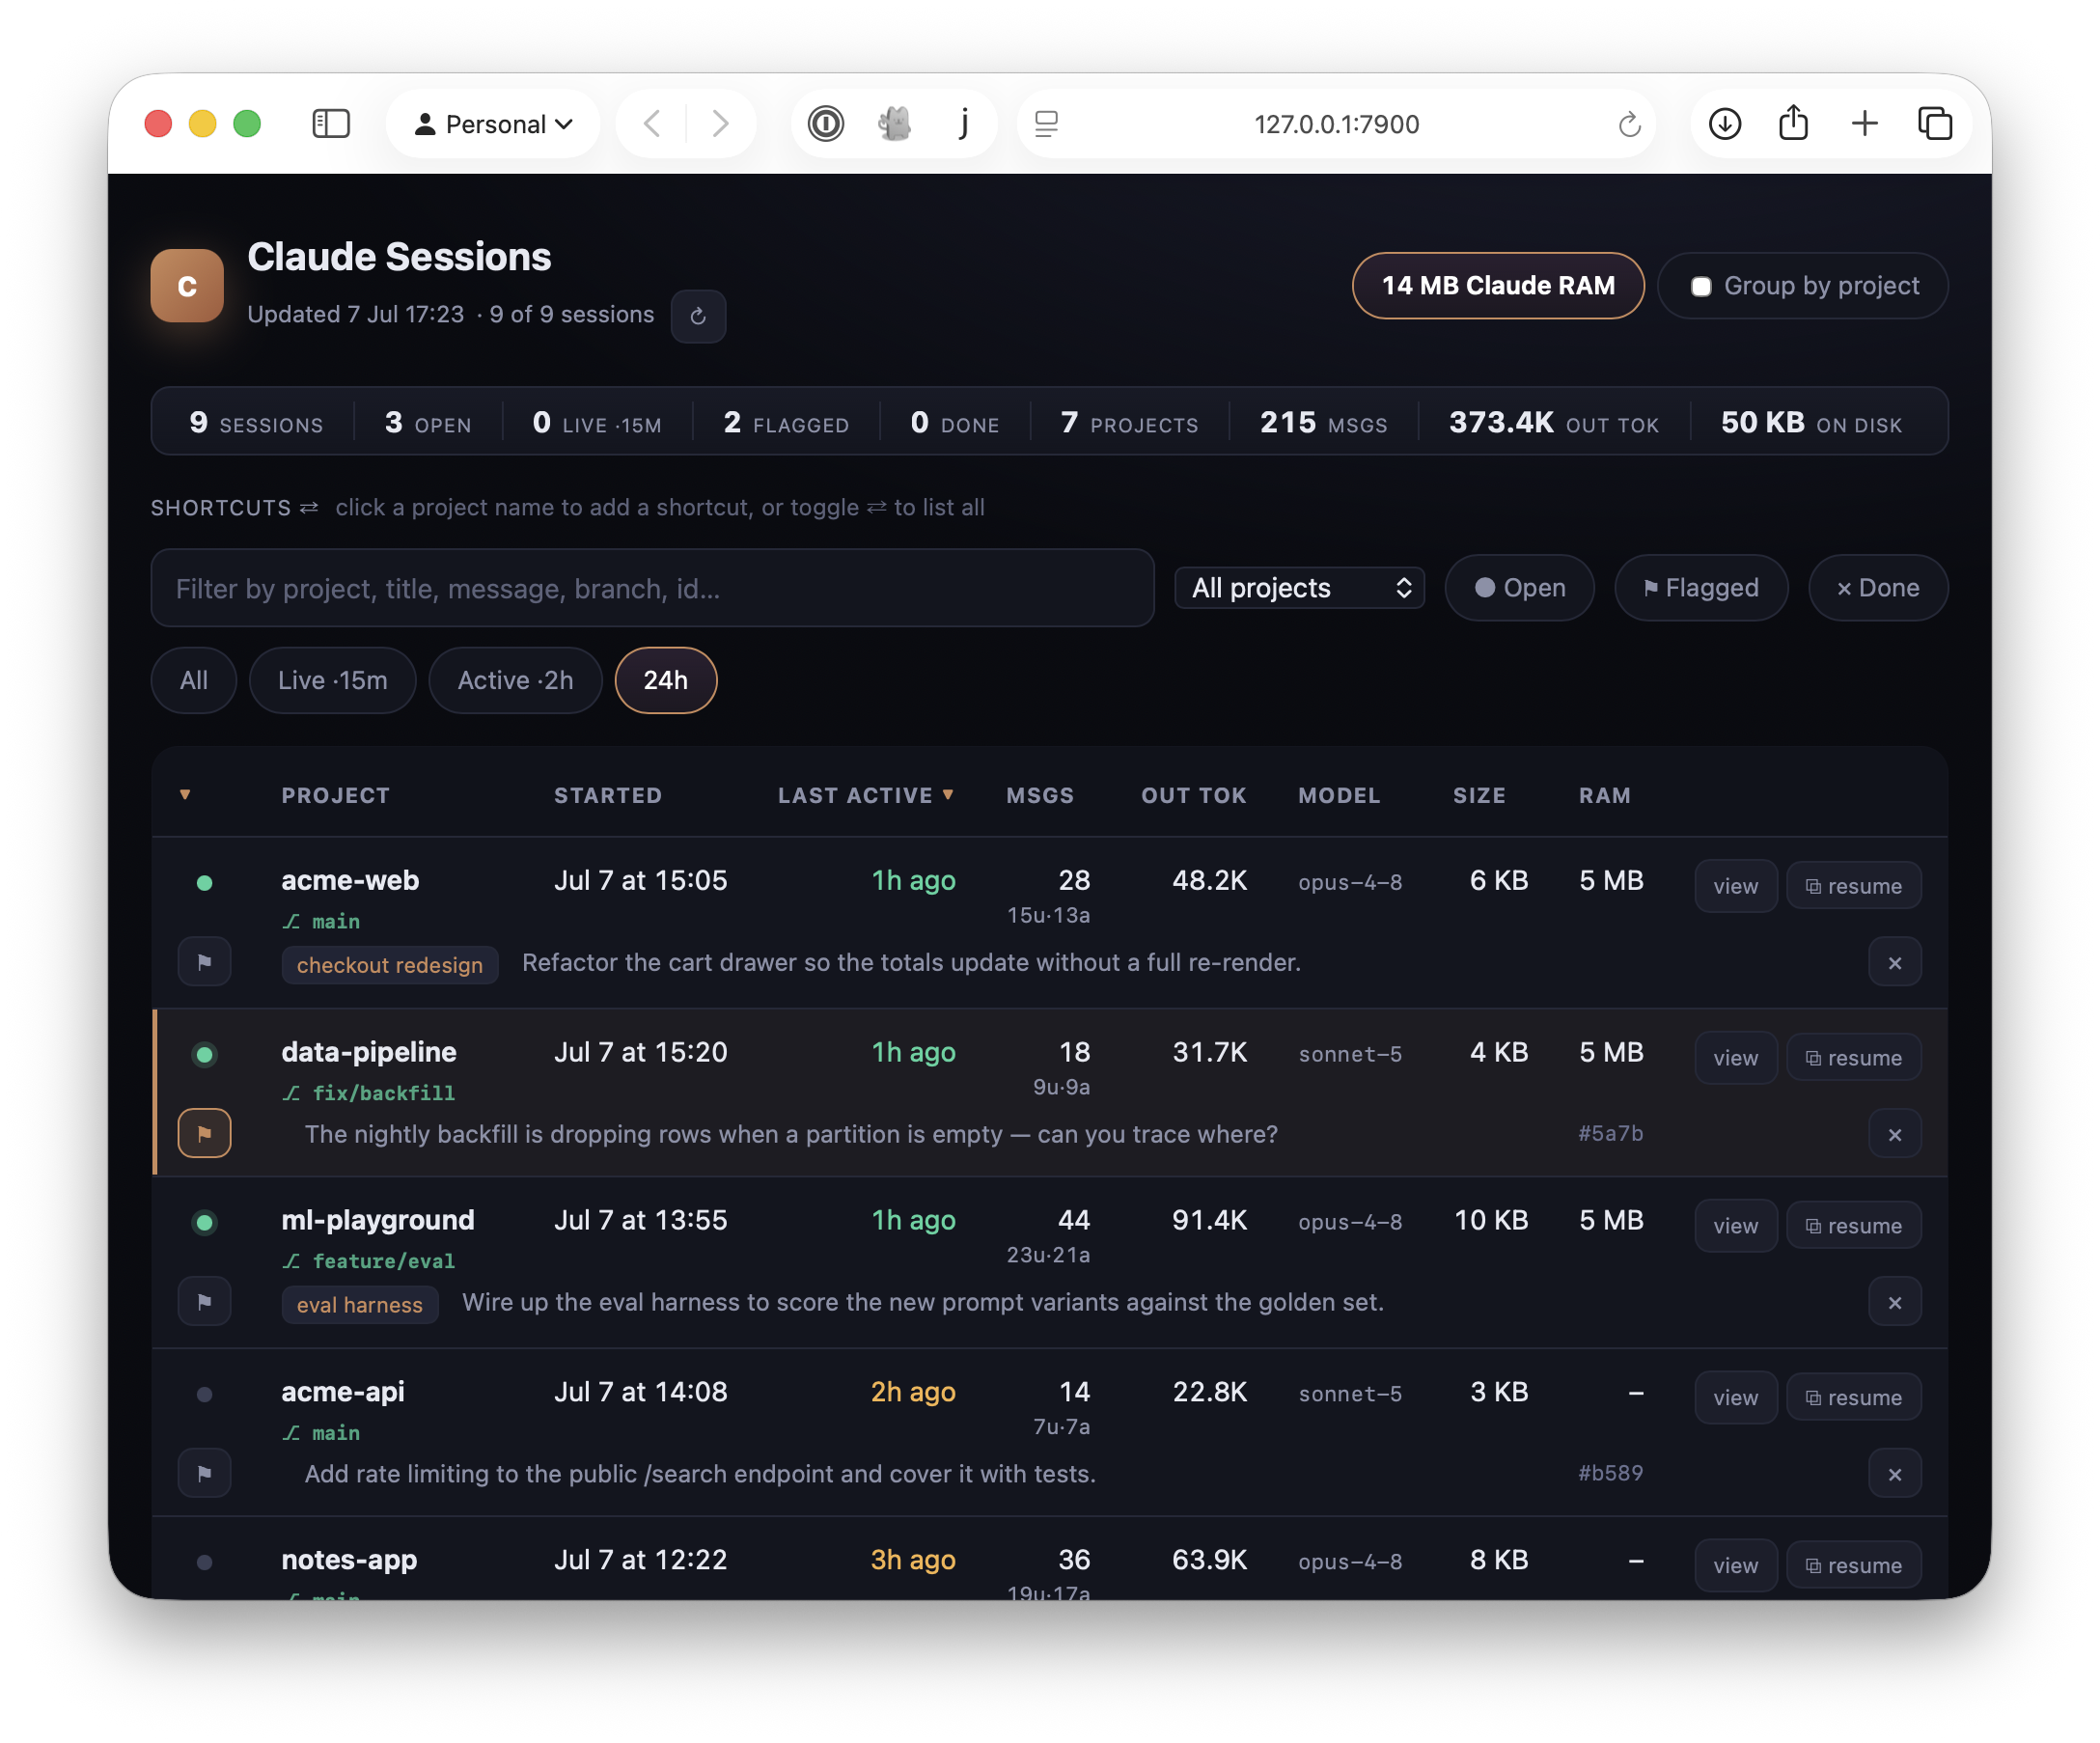
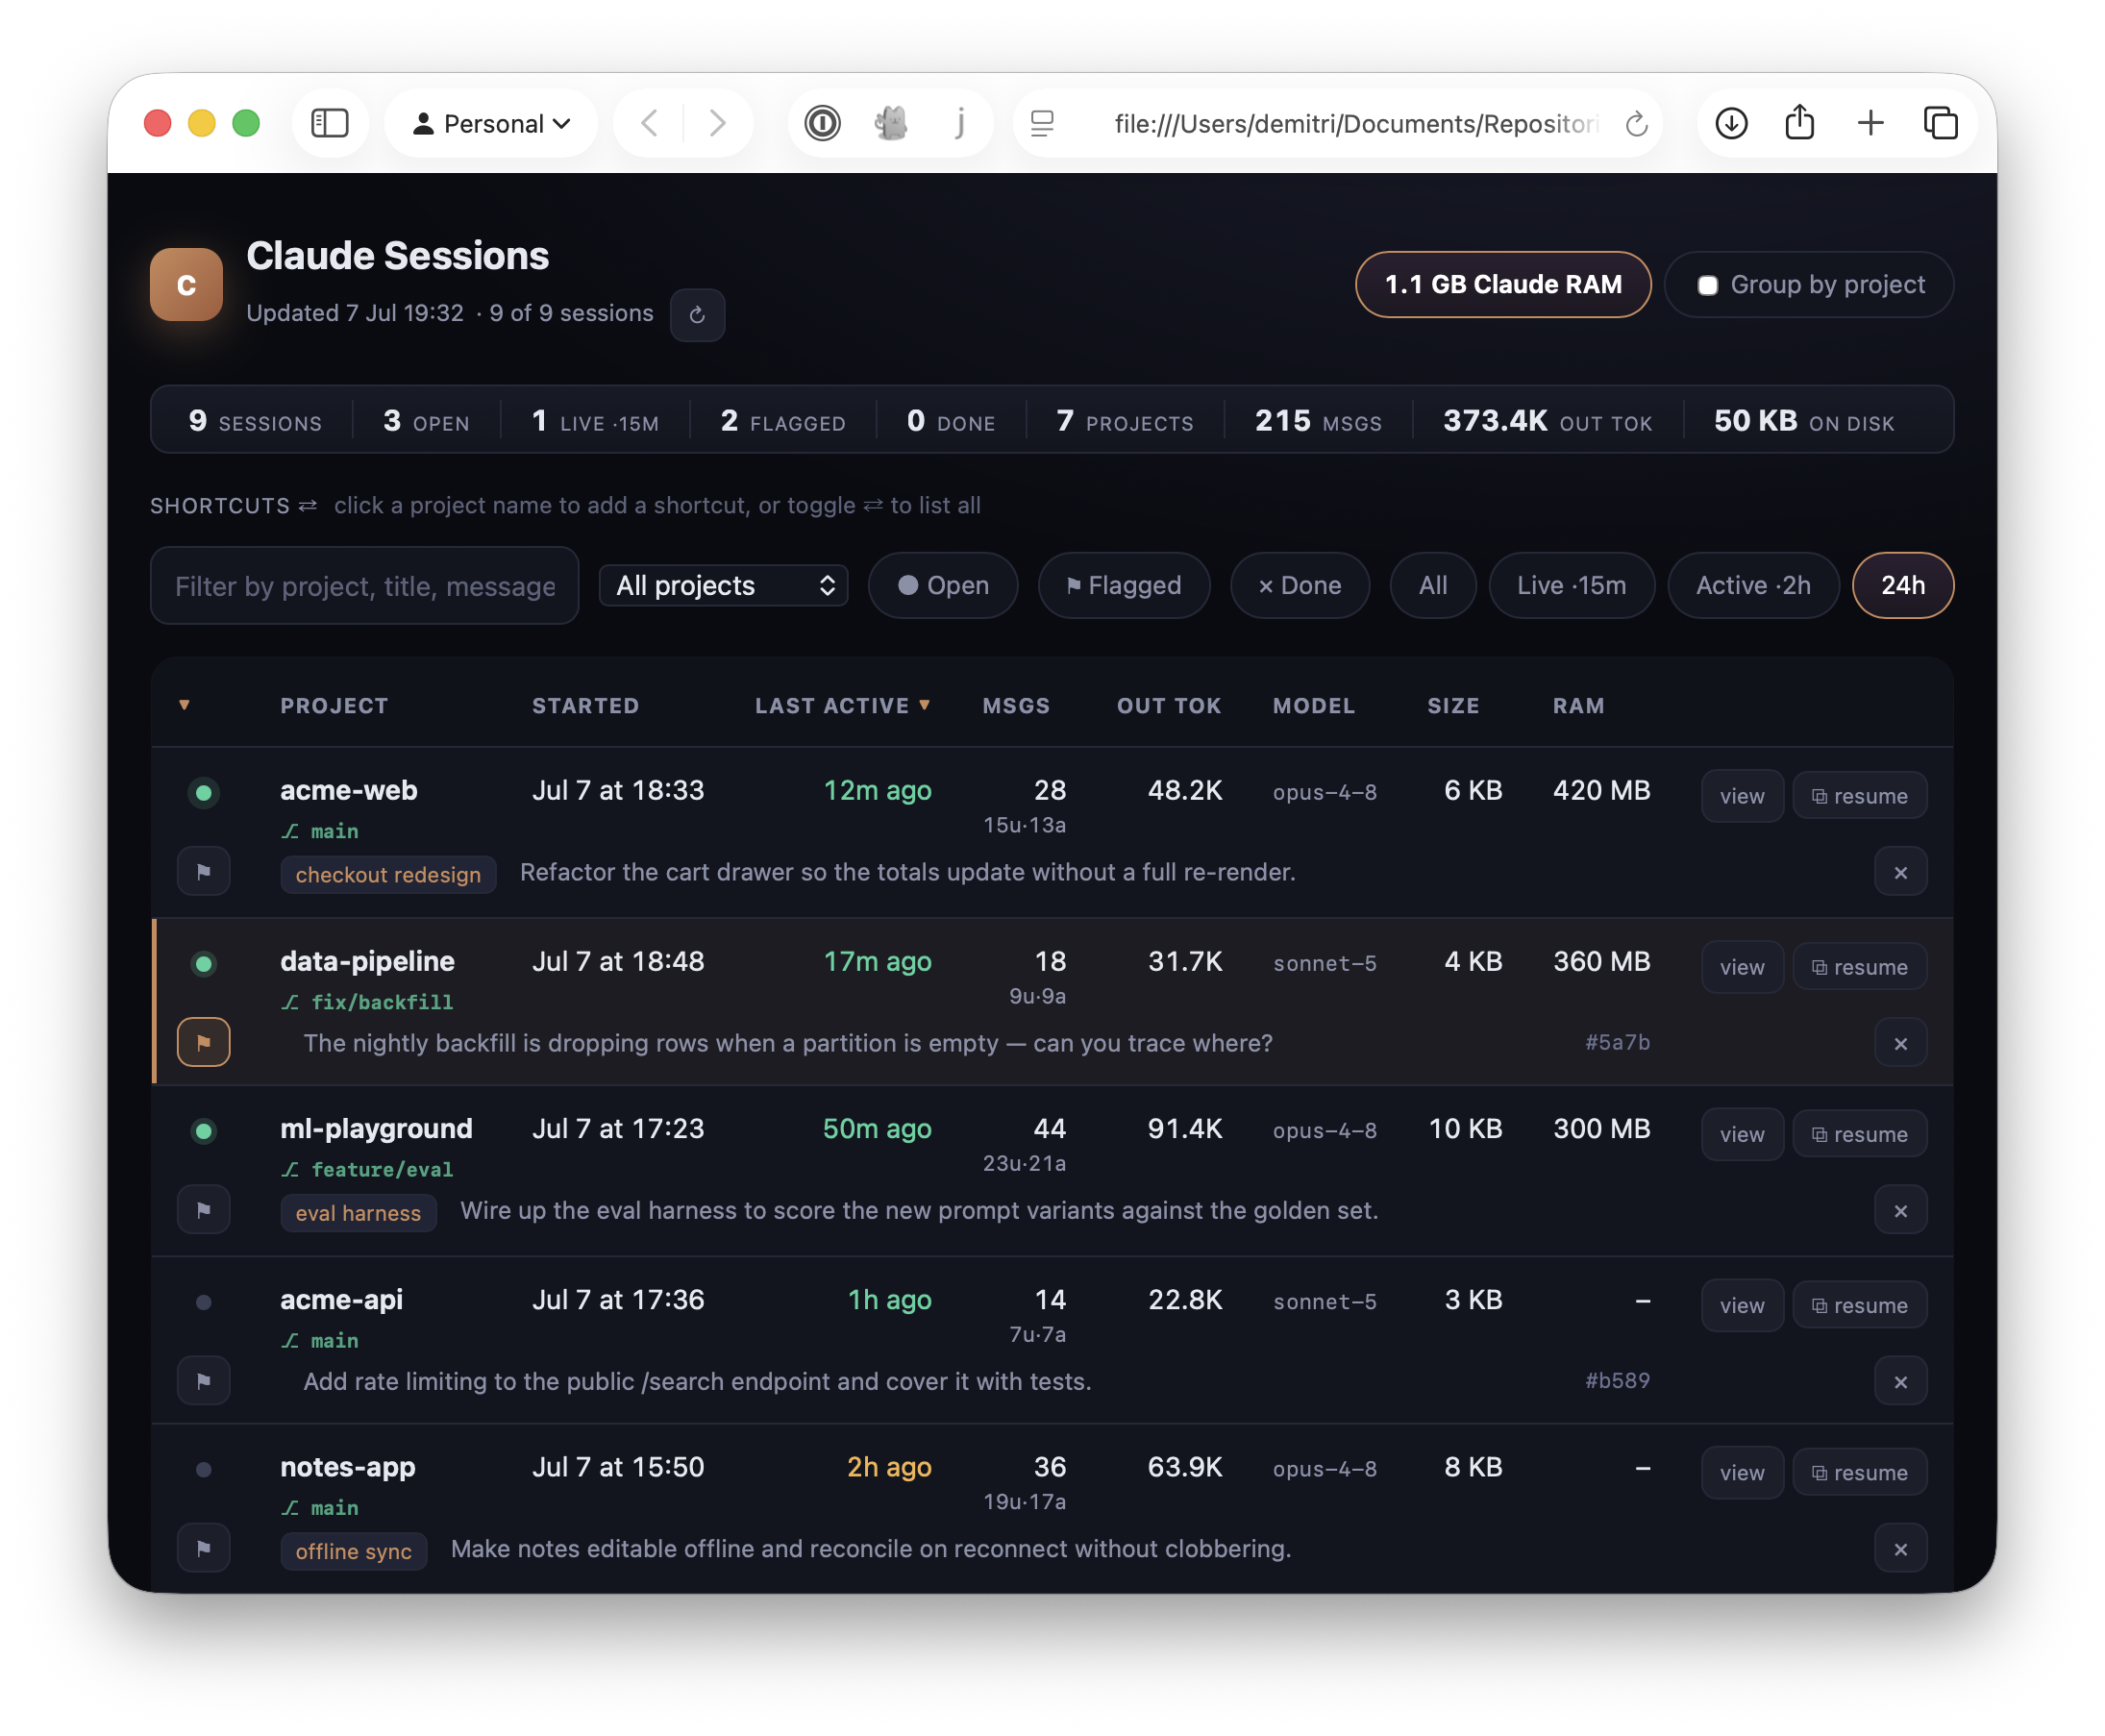
readme polish + zero-RAM screenshot fixture
- README: apply consistent style (en dashes, curly quotes, Title Case
  headings, "reopen"/"subagent"/"single-file"/"done"), fix typos, trim the
  /done redundancy, and correct "date" -> "last active".
- tools/make_fixture.py: reworked to inject open-state + RAM into the --once
  static JSON instead of spawning RAM-holding processes — no memory used, no
  cleanup, exact numbers; emits demo.html.
- docs/screenshot.png: refreshed fabricated capture (injected ~1.1 GB RAM).
- AI/dashboard.md: cleanupPeriodDays is default 20 (not 30) and settable
  (this machine: 99999) — don't assume the window is bounded.
- AI/START_HERE.md, AI/TODO.md: describe the injection approach.

Claude-Session: https://claude.ai/code/session_01VYuLtQmvA5r1BcYibEE2Lz

diff --git a/tools/make_fixture.py b/tools/make_fixture.py
@@ -1,33 +1,41 @@
 #!/usr/bin/env python3
-"""Generate a throwaway ~/.claude tree of *fabricated* Claude Code sessions so
+"""Generate a self-contained demo page of *fabricated* Claude Code sessions so
 the dashboard can be screenshotted (docs/screenshot.png) with zero real or
-private data.
+private data — and without spawning processes or holding real RAM.
 
-Everything here is invented — project names, prompts, ids. It writes into an
-isolated $FIXTURE_HOME, then you point the dashboard at that HOME:
+Everything here is invented — project names, prompts, ids, RAM figures. The
+approach:
 
+  1. Write an isolated $FIXTURE_HOME/.claude tree of invented session files.
+  2. Run `claude-status.py --once` against that HOME to produce the real static
+     page (reusing the app's own write_static(), so the HTML never drifts from
+     the live dashboard when the UI changes).
+  3. Inject open-state + RAM numbers straight into the page's inlined JSON.
+     Those fields (open / live_status / rss_kb) are normally process-derived;
+     faking them in the data is what lets the RAM column, the header RAM chip,
+     and the green/pulsing "open" dots render without any live Claude process.
+
+Output: $FIXTURE_HOME/demo.html — open it in a browser and screenshot. It's a
+plain file:// page: no server, no processes, nothing to kill afterward.
+
+Usage:
     cd tools
     FIXTURE_HOME="$PWD/fixture-home" python3 make_fixture.py
-    HOME="$PWD/fixture-home" python3 ../claude-status.py --port 7900
+    open "$PWD/fixture-home/demo.html"     # then screenshot -> docs/screenshot.png
 
-Because claude-status.py resolves PROJECTS/SESSIONS/FLAGS through
-os.path.expanduser("~/..."), overriding $HOME fully isolates it from your real
-~/.claude. Regenerate whenever the dashboard's look changes and a fresh
-screenshot is needed.
-
-The script also spawns a few short-lived helper processes that hold real RAM
-(and touch every page so it's actually resident) with matching
-~/.claude/sessions/<pid>.json files, so the RAM column and header chip render
-realistic numbers. It prints the pids and the `kill` line to stop them.
+Re-run whenever the dashboard's look changes and a fresh screenshot is needed.
 """
 import json, os, sys, random, subprocess
 from datetime import datetime, timezone, timedelta
 
 HOME = os.path.abspath(os.environ.get("FIXTURE_HOME", "fixture-home"))
 PROJECTS = os.path.join(HOME, ".claude", "projects")
-SESSIONS = os.path.join(HOME, ".claude", "sessions")
 CONFIG = os.path.join(HOME, ".config", "claude-sessions")
-for d in (PROJECTS, SESSIONS, CONFIG):
+APP = os.path.join(os.path.dirname(os.path.abspath(__file__)), "..", "claude-status.py")
+# write_static() always writes index.html next to claude-status.py:
+STATIC_OUT = os.path.join(os.path.dirname(os.path.abspath(APP)), "index.html")
+DEMO_OUT = os.path.join(HOME, "demo.html")
+for d in (PROJECTS, CONFIG):
     os.makedirs(d, exist_ok=True)
 
 rnd = random.Random(1234)  # deterministic fixture
@@ -60,14 +68,12 @@ SPEC = [
     ("data-pipeline",   "main",            None,                 "Document the schema for the events table and add a freshness check.", 6, 6, 17400, 1, 1180),
 ]
 
-# which rows are "open" (index -> status); those get a live process + RAM
-OPEN = {0: "busy", 1: "idle", 2: "idle"}
-# hold real, resident RAM so the RAM column / header chip look realistic (MB)
-RAM_MB = {0: 420, 1: 360, 2: 300}
+# index -> (live_status, rss_MB): the "open" sessions and their fabricated RAM.
+OPEN = {0: ("busy", 420), 1: ("idle", 360), 2: ("idle", 300)}
 FLAG_ROWS = {1, 5}   # ⚑ flagged (reboot-survival demo)
 
-live_pids = []
 sids = []
+inject = {}   # session id -> {"open", "live_status", "rss_kb"}
 for i, (proj, branch, title, prompt, nu, na, out_tok, mi, mins) in enumerate(SPEC):
     cwd = "%s/%s" % (BASE, proj)
     s = sid(); sids.append(s)
@@ -105,38 +111,42 @@ for i, (proj, branch, title, prompt, nu, na, out_tok, mi, mins) in enumerate(SPE
             fh.write(json.dumps(o) + "\n")
 
     if i in OPEN:
-        mb = RAM_MB[i]
-        # Hold memory that actually stays resident in `ps -o rss=` (what the
-        # dashboard reads). Two OS behaviours fight this: a zero-filled buffer
-        # gets collapsed (macOS memory compressor / Linux shared zero page),
-        # and *idle* pages get evicted/swapped even when incompressible. So:
-        # fill with incompressible os.urandom AND keep the pages hot with a
-        # cheap strided re-read once a second (one access per 4 KB page marks
-        # it recently-used → not reclaimed; ~size/4096 reads/s, negligible CPU).
-        code = ("import os, time\n"
-                "x = os.urandom(%d * 1024 * 1024)\n"
-                "while True:\n"
-                "    s = 0\n"
-                "    for i in range(0, len(x), 4096): s += x[i]\n"
-                "    time.sleep(1)\n") % mb
-        # Detach (own session, no inherited stdio) so the helper never holds a
-        # parent pipe open — otherwise a wrapping shell can hang on it.
-        proc = subprocess.Popen([sys.executable, "-c", code],
-                                stdout=subprocess.DEVNULL, stderr=subprocess.DEVNULL,
-                                stdin=subprocess.DEVNULL, start_new_session=True)
-        pid = proc.pid
-        live_pids.append(pid)
-        with open(os.path.join(SESSIONS, "%d.json" % pid), "w") as fh:
-            json.dump({"pid": pid, "sessionId": s, "cwd": cwd,
-                       "status": OPEN[i], "kind": "cli", "name": title or ""}, fh)
+        status, mb = OPEN[i]
+        inject[s] = {"open": True, "live_status": status, "rss_kb": mb * 1024}
 
 # flags.json (⚑ flagged rows: key present = mark set)
 flags = {sids[i]: {"flag": iso(now)} for i in FLAG_ROWS}
 with open(os.path.join(CONFIG, "flags.json"), "w") as fh:
     json.dump(flags, fh)
 
-print("FIXTURE_HOME=%s" % HOME)
-print("sessions: %d   open(with RAM): %d   flagged: %d" % (len(SPEC), len(live_pids), len(FLAG_ROWS)))
-print("\nServe it:\n  HOME=%s python3 ../claude-status.py --port 7900" % HOME)
-print("\nStop the RAM-holding helper processes when done:\n  kill %s"
-      % " ".join(str(p) for p in live_pids))
+# --- render the real static page via the app's own write_static(), then inject.
+env = dict(os.environ, HOME=HOME)
+subprocess.run([sys.executable, APP, "--once", "--no-open"], env=env, check=True)
+html = open(STATIC_OUT, encoding="utf-8").read()
+os.remove(STATIC_OUT)  # don't leave a snapshot in the repo tree
+
+# The page inlines the dataset as `let j=<json>;`. Parse exactly that JSON
+# object (raw_decode finds its end), rewrite the fabricated fields, splice back.
+i = html.index("let j=") + len("let j=")
+data, end = json.JSONDecoder().raw_decode(html, i)
+hit = 0
+for s in data["sessions"]:
+    patch = inject.get(s["id"])
+    if patch:
+        s.update(patch)
+        hit += 1
+if hit != len(inject):
+    raise SystemExit("inject: matched %d of %d open sessions (id mismatch?)" % (hit, len(inject)))
+html = html[:i] + json.dumps(data) + html[end:]
+# re-enable the per-row "view" links so the demo matches the live dashboard
+# (they're dead on file://, but never clicked in a screenshot).
+html = html.replace("const STATIC=true;", "const STATIC=false;")
+
+with open(DEMO_OUT, "w", encoding="utf-8") as fh:
+    fh.write(html)
+
+total_gb = sum(p["rss_kb"] for p in inject.values()) / 1024 / 1024
+print("\nsessions: %d   open+RAM: %d (%.2f GB)   flagged: %d"
+      % (len(SPEC), len(inject), total_gb, len(FLAG_ROWS)))
+print("demo page: %s" % DEMO_OUT)
+print("open it and screenshot -> docs/screenshot.png:\n  open %s" % DEMO_OUT)

diff --git a/README.md b/README.md
@@ -1,54 +1,16 @@
-# claude-sessions
+# Claude Sessions
 
-**A local dashboard for your Claude Code sessions.** Point it at `~/.claude`,
-open the page, and see every session grouped by project — with live status,
-stats, a full transcript reader, and one-click resume.
+**A local dashboard for your Claude Code sessions.**
 
-No install, no dependencies, no daemon. It's a single Python file that runs on
-the standard library. `python3 claude-status.py` and you're looking at it.
+Do you tend to have a large number of Claude sessions in flight? Do you find yourself wishing you could reopen a session that you closed two weeks ago? Are sessions taking up too much RAM but you don’t want to start closing them because of unfinished work?
 
-<p align="center">
-  <img src="docs/screenshot.png" alt="The claude-sessions dashboard: sessions grouped by project with status dots, stats, and resume buttons" width="900">
-</p>
+Claude Sessions is the answer – it’s a single-file Python server with no dependencies that gives you a detailed dashboard of all your sessions. Total memory used, number of sessions, and token usage are all displayed. Sessions are searchable by name, project, or last active. Even after you close a session the full transcript remains on your computer (subject to the `cleanupPeriodDays` [setting](https://code.claude.com/docs/en/settings), default 20 days), ready to be reopened at any time. You can even review the full transcript of past sessions without opening Claude and spending tokens. And I mean *full* transcript – read the subagent calls, responses, tool use, etc.
 
-## Why
+For those “I can’t close this session because I’m still using it!” windows, just find the session in the dashboard, click the “flag” icon, and close the session. You can then view all flagged sessions in the dashboard and copy the command to reopen them where they left off – freeing up precious RAM in the meantime. This project was born from a memory- and disk-full incident with 10+ open sessions that needed to survive a reboot – the on-disk history made the working set recoverable, and this dashboard turns that state into a live console for finding, triaging, and resuming your work.
 
-Claude Code persists every session to `~/.claude/projects/*/*.jsonl`, but there's
-no built-in way to see them all at once. This project was born from a disk-full
-incident with 10+ open sessions that needed to survive a reboot — the on-disk
-history made the working set recoverable, and this dashboard turns that state
-into a live console for finding, triaging, and resuming your work.
+## Starting the Dashboard
 
-## Features
-
-- **Everything at a glance** — every session grouped by project directory, with
-  start time, last-active (colour-coded by recency), message counts, model, git
-  branch, output tokens, and on-disk size.
-- **Live status** — a coloured dot per session: green for open, pulsing for
-  busy, grey for closed — detected from the running Claude processes, not
-  guessed from file mtimes.
-- **One-click resume** — the ⧉ button copies `cd "<dir>" && claude --resume <id>`
-  straight to your clipboard.
-- **Transcript reader** — a **view** link opens the full conversation on its own
-  linkable page: distinct user/assistant turns, collapsed tool-calls and
-  thinking, in-transcript search, a prompt-jump sidebar, and lazy sub-agent
-  expansion.
-- **Reboot survival** — ⚑ flag the sessions you're not done with, restart, filter
-  to "Flagged", and resume them. Marks persist server-side across reboots and
-  browsers.
-- **Filter & sort** — free-text search (project / title / message / branch / id /
-  model), a project dropdown, recency chips, and sortable columns.
-- **Memory footprint** — a per-session RAM column and a header chip totalling how
-  much memory your open sessions are holding — a number the OS can't tell you.
-- **`/done` in a session** — mark the current session complete so it drops out of
-  the default view; pairs naturally with `/exit`.
-
-## Requirements
-
-Python 3 with the standard library. That's it — no `pip install`. Tested on
-Python 3.13; any recent Python 3 should work. macOS and Linux.
-
-## Quick start
+Nothing to install, no dependencies, no daemon, just a recent Python 3.x. The dashboard is a single-file Python server that runs on the standard library.
 
 ```bash
 git clone https://github.com/demitri/claude-sessions.git
@@ -65,39 +27,38 @@ python3 claude-status.py --once        # write a static index.html snapshot and 
 python3 claude-status.py --done        # mark the current session "done" and exit
 ```
 
-The server rescans `~/.claude/projects/` on every request (cached per file by
-mtime + size), and the page auto-refreshes every 30 seconds.
+The server rescans `~/.claude/projects/` on every request (cached per file by mtime + size), and the page auto-refreshes every 30 seconds.
 
-## The `/done` slash command
+<p align="center">
+  <img src="docs/screenshot.png" alt="The claude-sessions dashboard: sessions grouped by project with status dots, stats, and resume buttons" width="900">
+</p>
 
-An example `/done` command ships in `commands/done.md`. Copy it to
-`~/.claude/commands/done.md` and set the checkout path (see the note at the top
-of the file). It marks the **current** session complete — reading
-`$CLAUDE_CODE_SESSION_ID`, so it takes no argument — dropping it from the
-dashboard's default view. Type `/done` then `/exit` to close out a finished
-session in one gesture.
+## Features
 
-The raw CLI also accepts an optional session id or the statusline's last-4
-(`python3 claude-status.py --done 6789`) for marking a session done from a plain
-terminal, outside any session. A running dashboard picks the mark up on its next
-refresh.
+- **Everything at a glance** – every session grouped by project directory, with start time, last-active (colour-coded by recency), message counts, model, git branch, output tokens, and on-disk size.
+- **Live status** – a coloured dot per session: green for open, pulsing for busy, grey for closed – detected from the running Claude processes, not guessed from file mtimes.
+- **One-click resume** – the ⧉ button copies `cd "<dir>" && claude --resume <id>` straight to your clipboard.
+- **Transcript reader** – a **view** link opens the full conversation on its own linkable page: distinct user/assistant turns, collapsed tool-calls and thinking, in-transcript search, a prompt-jump sidebar, and lazy subagent expansion.
+- **Reboot survival** – ⚑ flag the sessions you’re not done with, restart, filter to “Flagged”, and resume them. Marks persist server-side across reboots and browsers.
+- **Filter & sort** – free-text search (project / title / message / branch / id / model), a project dropdown, recency chips, and sortable columns.
+- **Memory footprint** – a per-session RAM column and a header chip totalling how much memory your open sessions are holding – a number the OS can’t tell you.
+- **Mark sessions done** – `/done` in a session (or the ✕ button in the dashboard) drops a finished session from the default view. It’s not deleted – a toggle brings done sessions back.
 
-## How it works
+## The `/done` Slash Command
 
-Everything lives in `claude-status.py` — a stdlib `ThreadingHTTPServer` backend
-and a single embedded HTML/CSS/JS page, no build step and no framework. The
-backend scans `~/.claude/projects/*/*.jsonl`, parses each session defensively
-(the format is an undocumented Claude Code internal, so malformed *lines* are
-skipped, never whole files), and serves the data as JSON. Live status comes from
-`~/.claude/sessions/<pid>.json`, cross-checked against the running processes.
+An example `/done` command ships in `commands/done.md`. Copy it to `~/.claude/commands/done.md` and set the checkout path (see the note at the top of the file). It marks the **current** session done – reading `$CLAUDE_CODE_SESSION_ID`, so it takes no argument – dropping it from the dashboard’s default view. Type `/done` then `/exit` to close out a finished session in one gesture.
 
-For a deeper tour, see [`AI/dashboard.md`](AI/dashboard.md); for orientation,
-[`AI/START_HERE.md`](AI/START_HERE.md).
+The raw CLI also accepts an optional session id or the statusline’s last-4 (`python3 claude-status.py --done 6789`) for marking a session done from a plain terminal, outside any session. A running dashboard picks the mark up on its next refresh.
+
+## How It Works
+
+Everything lives in `claude-status.py` – a stdlib `ThreadingHTTPServer` backend and a single embedded HTML/CSS/JS page, no build step and no framework. The backend scans `~/.claude/projects/*/*.jsonl`, parses each session defensively (the format is an undocumented Claude Code internal, so malformed *lines* are skipped, never whole files), and serves the data as JSON. Live status comes from `~/.claude/sessions/<pid>.json`, cross-checked against the running processes.
+
+For a deeper tour, see [`AI/dashboard.md`](AI/dashboard.md); for orientation, [`AI/START_HERE.md`](AI/START_HERE.md).
 
 ## Privacy
 
-Everything runs locally and binds to `127.0.0.1`. Nothing is sent anywhere — the
-dashboard only reads the session files Claude Code already wrote to your disk.
+Everything runs locally and binds to `127.0.0.1`. Nothing is sent anywhere – the dashboard only reads the session files Claude Code already wrote to your disk.
 
 ## License
 

diff --git a/AI/START_HERE.md b/AI/START_HERE.md
@@ -33,10 +33,14 @@ recovery console.
 - `README.md` — public-facing usage (screenshot, features, quick-start). `LICENSE`
   is MIT.
 - `docs/screenshot.png` — the README hero image, generated from **fabricated**
-  data (no private repos) by `tools/make_fixture.py`: it builds an isolated
-  `$HOME` of invented sessions (+ live RAM-holding helper processes so the RAM
-  column/chip look real), which you serve via `HOME=… claude-status.py`. Re-run
-  it to refresh the screenshot when the UI changes; see the script's docstring.
+  data (no private repos) by `tools/make_fixture.py`: it writes an isolated
+  `$HOME` of invented session files, runs `claude-status.py --once` against it
+  (reusing the app's own `write_static()`, so the page never drifts from the
+  live UI), then **injects** the open-state + RAM fields (`open`/`live_status`/
+  `rss_kb`) into the inlined JSON — so the RAM column/chip and green dots render
+  with no live process and no real RAM. Output is `$FIXTURE_HOME/demo.html`
+  (a plain file:// page — nothing to kill afterward). Re-run to refresh the
+  screenshot when the UI changes; see the script's docstring.
 - `AI/dashboard.md` — implementation details: session-file parsing, data model,
   the embedded SPA, gotchas.
 - `AI/remote.md` — design (not yet built) for aggregating sessions from other

diff --git a/AI/dashboard.md b/AI/dashboard.md
@@ -162,9 +162,13 @@ session-init record carries it; `"cli"` = interactive, `"sdk-cli"` = headless).
 
 ### Retention
 
-Claude Code prunes transcripts older than `cleanupPeriodDays` (**default 30**,
-unset here) on startup — so the corpus is a rolling ~30-day window, not infinite
-history. Untouched sessions age out on their own.
+Claude Code prunes transcripts older than `cleanupPeriodDays` (**default 20**,
+per the [settings docs](https://code.claude.com/docs/en/settings)) on startup —
+so with the default the corpus is a rolling ~20-day window and untouched sessions
+age out on their own. It's a knob, though: this dev's machine sets it to `99999`
+(effectively never), so **don't assume the window is bounded** — read the actual
+value from settings before relying on it (this is what the purge-warning idea in
+`AI/TODO.md` keys on).
 
 ## Per-session data model (`parse_session` → JSON)
 

diff --git a/AI/TODO.md b/AI/TODO.md
@@ -42,8 +42,9 @@ Open ideas (none blocking; v1 works):
       `LICENSE` (MIT), and embedded `docs/screenshot.png` near the top. The
       screenshot is generated from **fabricated** data (no private repos) by
       `tools/make_fixture.py`, which builds an isolated `$HOME` of invented
-      sessions + live RAM-holding helpers; re-run it to refresh the shot when the
-      UI changes.
+      sessions, runs `--once`, and injects open-state + RAM into the inlined
+      JSON (no live process / no real RAM) → `demo.html`; re-run it to refresh
+      the shot when the UI changes.
 - [x] First git commit + remote (2026-07-03) — public repo at
       `github.com:demitri/claude-sessions`.
 - [x] **Session transcript viewer** (2026-07-02) — `/session?id=[&agent=]` page: